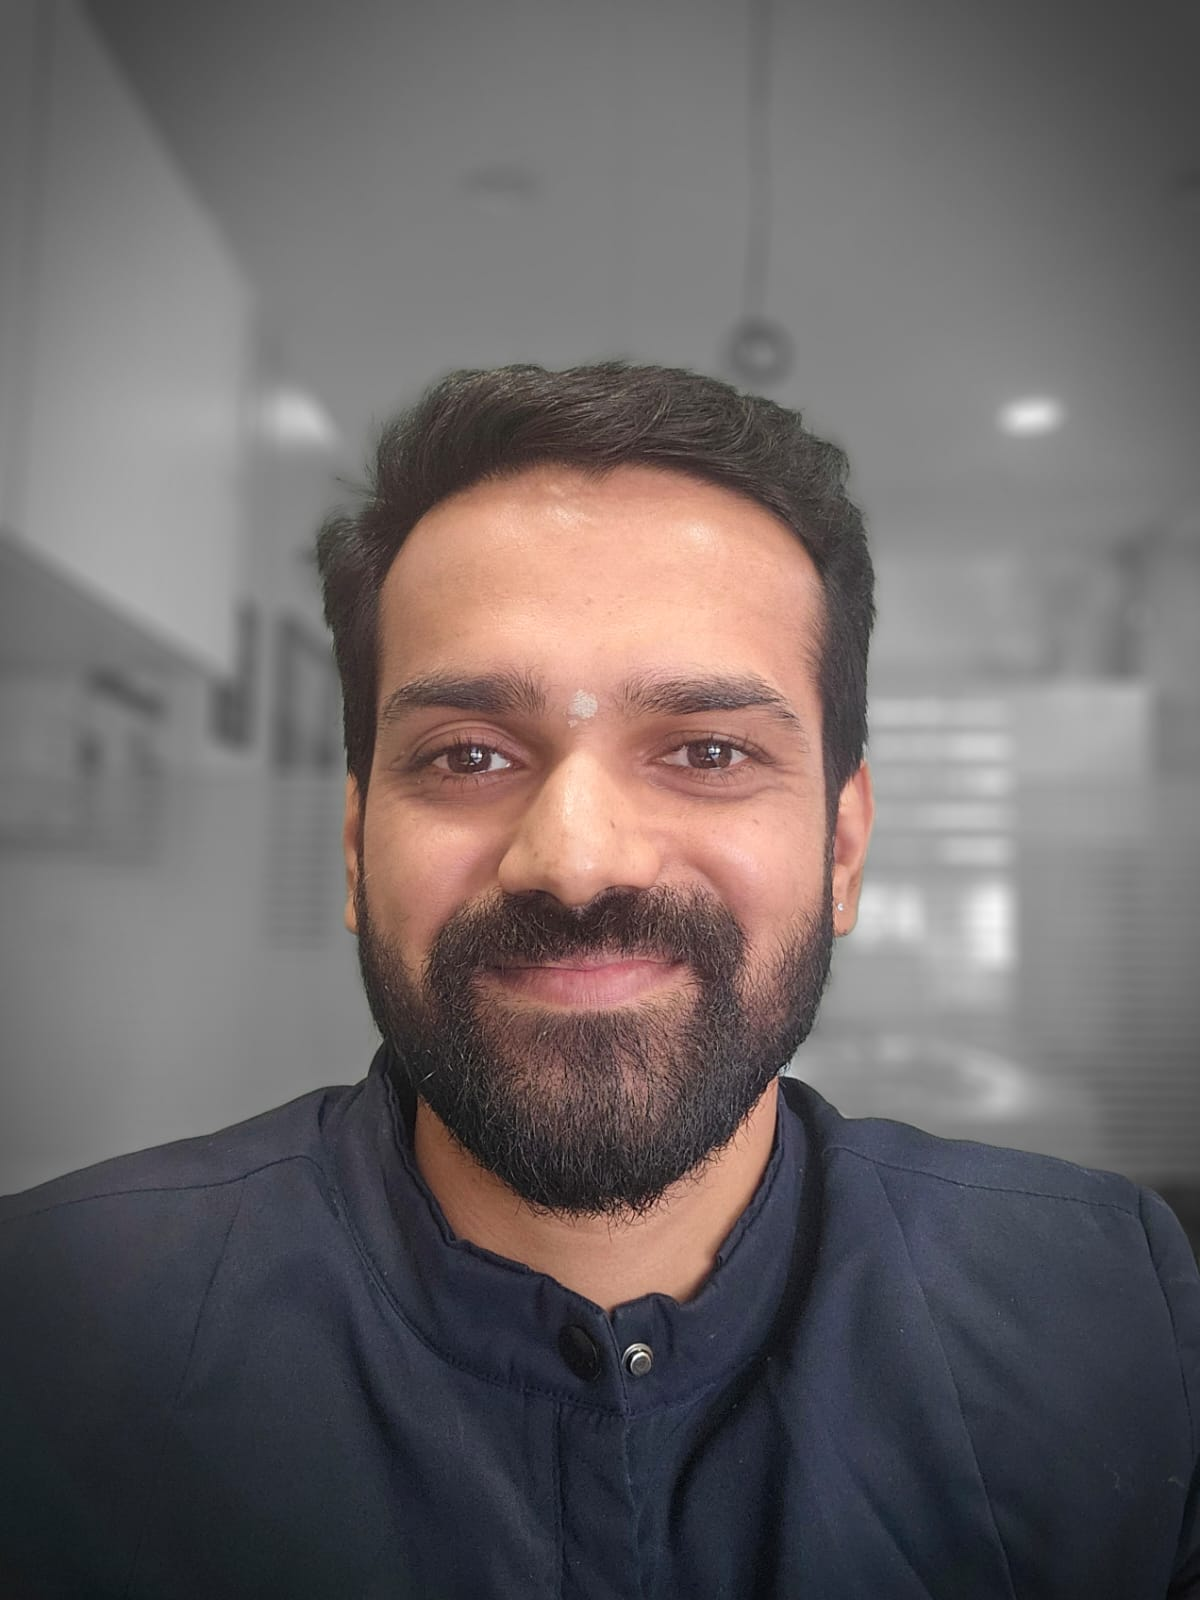
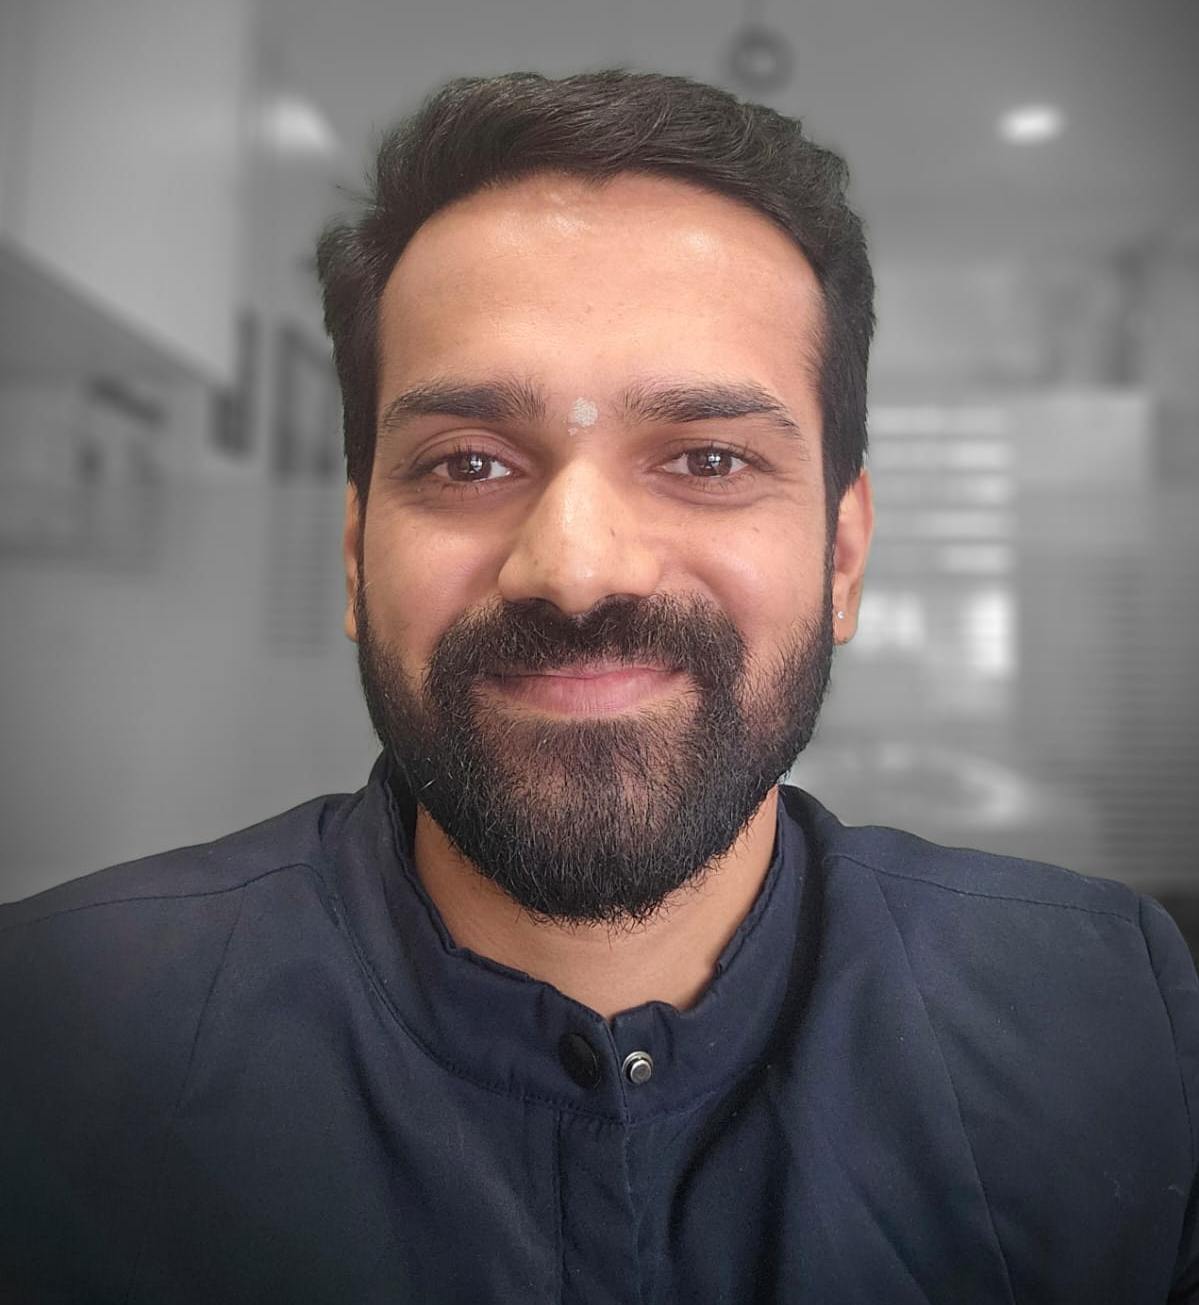
Fix Our Team image issue

diff --git a/app/our-story/page.tsx b/app/our-story/page.tsx
@@ -210,16 +210,21 @@ export default function OurStoryPage() {
           </div>
 
           {/* --- Team Grid --- */}
-          <div className="grid grid-cols-1 md:grid-cols-2 gap-12">
+          <div className="mx-auto max-w-5xl">
+          <div className="grid grid-cols-1 sm:grid-cols-2 gap-12 lace-items-center">
             {team.map((member) => (
               <article
                 key={member.memberName}
-                className="bg-accent rounded-xl shadow-lg hover:shadow-xl transition-shadow flex flex-col overflow-hidden"
+                className="
+    bg-accent rounded-xl shadow-lg hover:shadow-xl transition-shadow
+    flex flex-col overflow-hidden
+    w-full max-w-md
+  "
                 itemScope
                 itemType="https://schema.org/Person"
               >
                 {/* --- Image --- */}
-                <div className="relative w-full aspect-[3/4] overflow-hidden rounded-t-xl">
+                <div className="relative w-full aspect-[4/5] md:aspect-[1/1] overflow-hidden rounded-t-xl">
                   <Image
                     src={`/img/ot/${member.image}`}
                     alt={`Photo of ${member.memberName}`}
@@ -256,6 +261,7 @@ export default function OurStoryPage() {
               </article>
             ))}
           </div>
+</div>
         </div>
       </section>
       <TestimonialsTicker />

diff --git a/app/services/[slug]/page.tsx b/app/services/[slug]/page.tsx
@@ -187,7 +187,7 @@ export default async function ServiceDetailPage({ params }: { params: Promise<{ 
                         {/* CTA */}
                         <Link
                           href={`/services/${child.id}`}
-                          className="primary inline-flex items-center gap-2 mt-6 px-6 py-3  hover:shadow-lg transition-all duration-300 hover:-translate-y-0.5"
+                          className="primary inline-flex rounded-xl items-center gap-2 mt-6 px-6 py-3  hover:shadow-lg transition-all duration-300 hover:-translate-y-0.5"
                         >
                           Learn More
                           <ArrowRight className="w-4 h-4" />

diff --git a/app/sitemap.ts b/app/sitemap.ts
@@ -26,8 +26,7 @@ export default async function sitemap() {
     "/",
     "/our-team",    
     "/contact-us",    
-    "/clients",
-    "/our-team",
+    "/clients",    
     "/services",
     "/faq"
 
